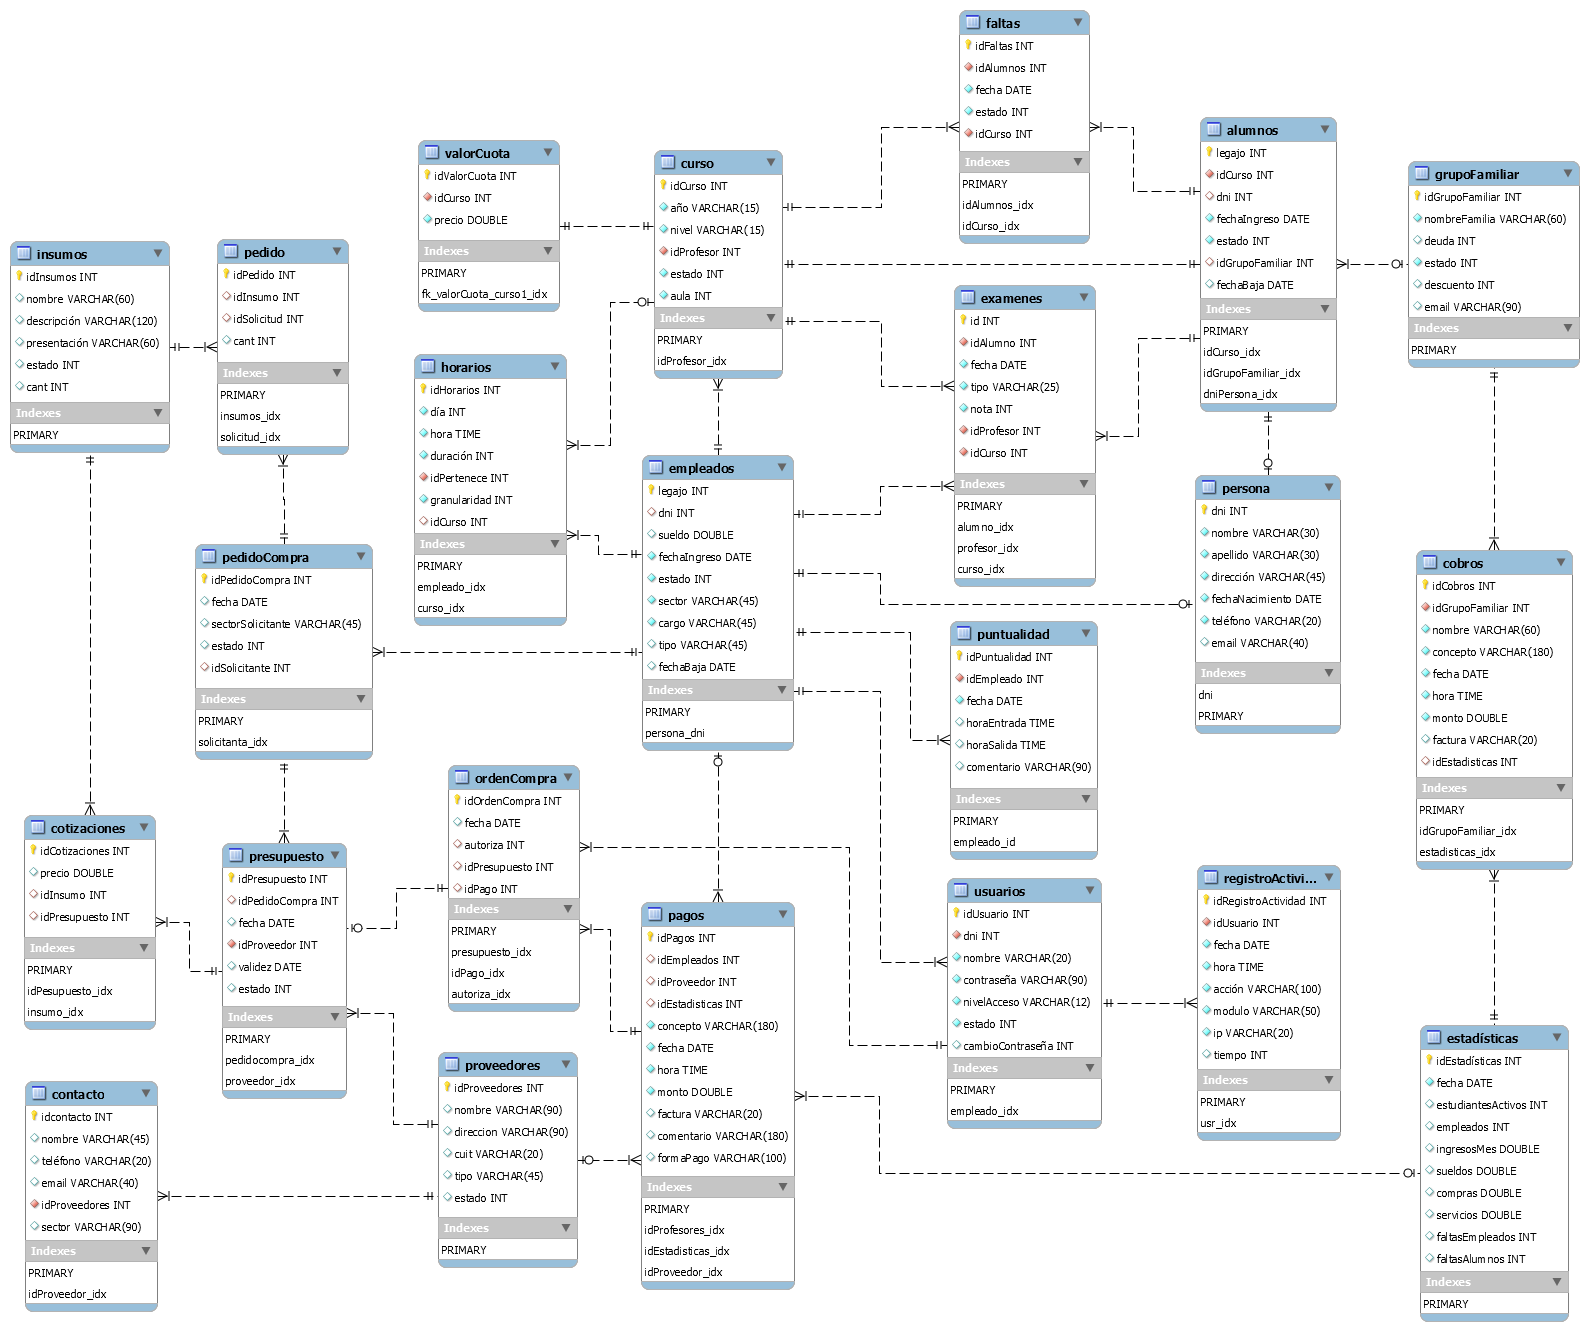
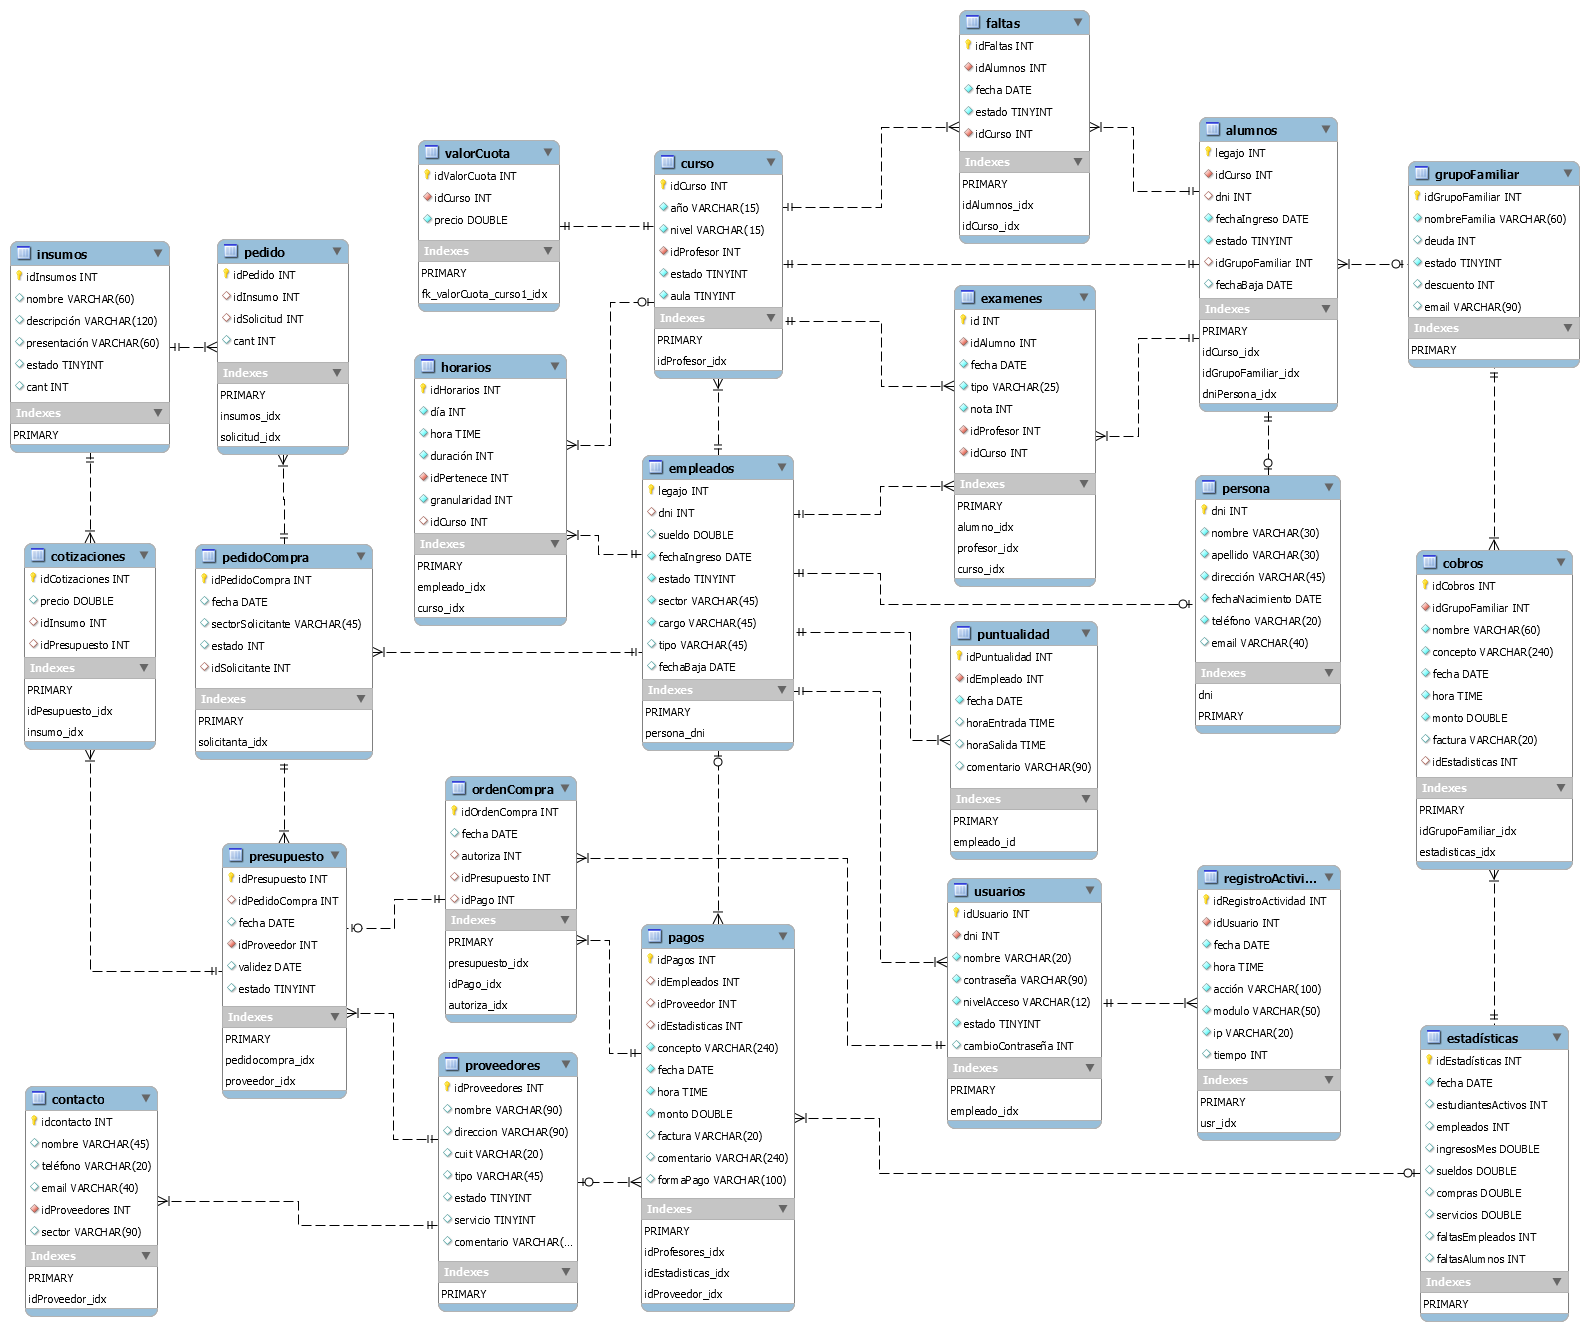
Implementando "Pago de servicios".

diff --git a/administracion/control/CtrlPagos.java b/administracion/control/CtrlPagos.java
@@ -14,6 +14,7 @@ public class CtrlPagos implements ActionListener {
 	private InterfaceBotones ventana;
 	private ABML ventanaEmpleados;
 	private ABML ventanaProveedores;
+	private ABML ventanaServicios;
 	private Listado ventanaHistorial;
 	
 	public CtrlPagos(InterfaceBotones vista) {
@@ -22,6 +23,7 @@ public class CtrlPagos implements ActionListener {
 		this.ventana.btn1A.addActionListener(this);
 		this.ventana.btn1B.addActionListener(this);
 		this.ventana.btn1C.addActionListener(this);
+		this.ventana.btn2A.addActionListener(this);
 		this.ventana.btnVolver.addActionListener(this);
 	}
 	
@@ -38,9 +40,12 @@ public class CtrlPagos implements ActionListener {
 		ventana.lbl1B.setText("Proveedores");
 		ventana.btn1B.setIcon(new ImageIcon(DtosConfiguracion.getDirectorio() + "\\Imagenes\\Proveedores.png"));
 		ventana.btn1B.setVisible(true);
-		ventana.lbl1C.setText("Listado pagos");
-		ventana.btn1C.setIcon(new ImageIcon(DtosConfiguracion.getDirectorio() + "\\Imagenes\\Listado cobros.png"));
+		ventana.lbl1C.setText("Servicios");
+		ventana.btn1C.setIcon(new ImageIcon(DtosConfiguracion.getDirectorio() + "\\Imagenes\\Servicios.png"));
 		ventana.btn1C.setVisible(true);
+		ventana.lbl2A.setText("Listado pagos");
+		ventana.btn2A.setIcon(new ImageIcon(DtosConfiguracion.getDirectorio() + "\\Imagenes\\Listado cobros.png"));
+		ventana.btn2A.setVisible(true);
 		ventana.setVisible(true);
 	}
 	
@@ -58,11 +63,27 @@ public class CtrlPagos implements ActionListener {
 		
 		if(e.getSource() == ventana.btn1C) {
 			
+			servicios();
+		}
+		
+		if(e.getSource() == ventana.btn2A) {
+			
 			historial();
 		}
 		
 		if(e.getSource() == ventana.btnVolver) {
 			
+			if(ventanaEmpleados != null)
+				ventanaEmpleados.dispose();
+
+			if(ventanaProveedores != null)
+				ventanaProveedores.dispose();
+
+			if(ventanaServicios != null)
+				ventanaServicios.dispose();
+
+			if(ventanaHistorial != null)
+				ventanaHistorial.dispose();
 			ventana.dispose();
 		}
 	}
@@ -89,6 +110,17 @@ public class CtrlPagos implements ActionListener {
 		ventanaProveedores = new ABML("Pago a proveedores", ventana.getX(), ventana.getY());
 		CtrlProveedores ctrlProveedores = new CtrlProveedores(ventanaProveedores);
 		ctrlProveedores.iniciar();
+	}
+	
+	private void servicios() {
+		
+		if(ventanaServicios != null && ventanaServicios.isVisible()) {
+			ventanaServicios.setVisible(true);
+			return;
+		}
+		ventanaServicios = new ABML("Pago de servicios e impuestos", ventana.getX(), ventana.getY());
+		CtrlPagoServicios ctrlPagarServicios = new CtrlPagoServicios(ventanaServicios);
+		ctrlPagarServicios.iniciar();
 	}
 	
 	private void historial() {

diff --git a/administracion/control/CtrlPagoServicios.java b/administracion/control/CtrlPagoServicios.java
@@ -1,0 +1,129 @@
+package control;
+
+import java.awt.event.ActionEvent;
+import java.awt.event.ActionListener;
+import java.awt.event.MouseAdapter;
+import java.awt.event.MouseEvent;
+import javax.swing.JOptionPane;
+import modelo.DtosPagos;
+import vista.ABML;
+import vista.Listado;
+
+public class CtrlPagoServicios implements ActionListener {
+
+	private ABML ventana;
+	private DtosPagos dtosPagos;
+	private int elemento = -1;
+	private Listado ventanaListadoPagos;
+	private Listado ventanaPagar;
+
+	public CtrlPagoServicios(ABML vista) {
+		
+		this.ventana = vista;
+		this.dtosPagos = new DtosPagos();
+		this.ventana.btnNuevo.addActionListener(this);
+		this.ventana.btnEditar.addActionListener(this);
+		this.ventana.btnVolver.addActionListener(this);
+		this.ventana.tabla.addMouseListener(new MouseAdapter() {
+			public void mouseClicked(MouseEvent e) {
+				if(e.getClickCount() == 1) {
+				
+					elemento = ventana.tabla.getSelectedRow();
+				} else if(e.getClickCount() == 2) {
+				
+					elemento = ventana.tabla.getSelectedRow();
+					histial();
+				}
+			}
+		});
+	}
+	
+	public void iniciar() {
+		
+		ventana.btnNuevo.setText("Ver");
+		ventana.btnEditar.setText("Pagar");
+		ventana.btnImprimir.setVisible(false);
+		
+		
+int algo;		
+		
+		actualizar();
+		
+		
+		
+		
+		
+		ventana.setVisible(true);
+	}
+	
+	public void actionPerformed(ActionEvent e) {
+		
+		if(e.getSource() == ventana.btnNuevo) {
+			
+			histial();	
+		}
+		
+		if(e.getSource() == ventana.btnEditar) {
+			
+			pagar();	
+		}
+
+		if(e.getSource() == ventana.btnVolver) {
+			
+			if(ventanaListadoPagos != null)
+				ventanaListadoPagos.dispose();
+			
+			if(ventanaPagar != null)
+				ventanaPagar.dispose();
+			ventana.dispose();
+		}
+	}
+	
+	private void actualizar() {
+		
+		
+	}
+	
+	private void pagar() {
+		
+		if(checkSeleccion()) {
+			
+			if(ventanaPagar != null && ventanaPagar.isVisible())
+				ventanaPagar.dispose();
+			
+			
+			
+			
+			
+			
+			
+		}
+	}
+	
+	private void histial() {
+		
+		if(checkSeleccion()) {
+			
+			if(ventanaListadoPagos != null && ventanaListadoPagos.isVisible())
+				ventanaListadoPagos.dispose();
+			
+			
+			
+			
+			
+			
+			
+		}
+	}
+	
+	private boolean checkSeleccion() {
+		
+		if(elemento == -1) {
+			
+			JOptionPane.showMessageDialog(null, "Debe elegir un elemento.");
+			return false;
+		}
+		dtosPagos.setProveedor(elemento);
+		return true;
+	}
+}

diff --git a/administracion/modelo/DtosPagos.java b/administracion/modelo/DtosPagos.java
@@ -9,7 +9,6 @@ import dao.ComprasMySQL;
 import dao.EmpleadoMySQL;
 import dao.InsumosDAO;
 import dao.InsumosMySQL;
-import dao.OperadorSistema;
 import dao.PagosDAO;
 import dao.PagosMySQL;
 
@@ -153,9 +152,7 @@ public class DtosPagos {
 			return false;
 		}
 		pagosDAO = new PagosMySQL();
-		OperadorSistema operador = new OperadorSistema();
-		pago.setIdEmpleado(operador.getLegajoUsuario());
-		
+
 		if(pagosDAO.setPagoProveedor(pago, seleccionados)) {
 			
 			InsumosDAO insumosDAO = new InsumosMySQL();
@@ -260,8 +257,7 @@ public class DtosPagos {
 	public boolean registrarPagoEmpleado() {
 		
 		pagosDAO = new PagosMySQL();
-		OperadorSistema operador = new OperadorSistema();
-		pago.setIdEmpleado(operador.getLegajoUsuario());
+		pago.setIdEmpleado(empleado.getLegajo());
 		
 		if(pagosDAO.setPagoEmpleado(pago)) {
 	

diff --git a/administracion/control/CtrlPagoEmpleados.java b/administracion/control/CtrlPagoEmpleados.java
@@ -64,7 +64,7 @@ public class CtrlPagoEmpleados implements ActionListener{
 	
 	public void actionPerformed(ActionEvent e) {
 
-		if(e.getSource() == ventana.chckbx1) {
+		if(e.getSource() == ventana.chckbx1 && ventana.isVisible()) {
 			
 			actualizar();
 		}
@@ -125,6 +125,7 @@ public class CtrlPagoEmpleados implements ActionListener{
 			
 			if(ventanaDetallePagos != null && ventanaDetallePagos.isVisible())
 				ventanaDetallePagos.dispose();
+			ventana.tabla.clearSelection();
 			ventanaDetallePagos = new Listado("Detalle pagos empleados", ventana.getX(), ventana.getY());
 			CtrlListadoPagosEmpleado ctrlDetallePagos = new CtrlListadoPagosEmpleado(ventanaDetallePagos);
 			ctrlDetallePagos.iniciar();

diff --git a/administracion/control/CtrlPagarEmpleado.java b/administracion/control/CtrlPagarEmpleado.java
@@ -4,7 +4,6 @@ import java.awt.Color;
 import java.awt.event.ActionEvent;
 import java.awt.event.ActionListener;
 import javax.swing.DefaultComboBoxModel;
-
 import modelo.DtosPagos;
 import vista.Nuevo;
 
@@ -54,6 +53,7 @@ public class CtrlPagarEmpleado implements ActionListener{
 		ventana.txt3.setColumns(30);
 		ventana.txt3.setVisible(true);
 		ventana.comboBox1.setModel(new DefaultComboBoxModel<String>(dtosPagos.listadoConcepto()));
+		ventana.comboBox1.setSelectedIndex(dtosPagos.getMesActual() - 1);
 		ventana.comboBox2.setModel(new DefaultComboBoxModel<String>(dtosPagos.formasPago()));
 		ventana.txtLegajo.setText(dtosPagos.getLegajo());
 		ventana.txtNombre.setText(dtosPagos.getNombreEmpleado());

diff --git a/proveedores/modelo/Proveedor.java b/proveedores/modelo/Proveedor.java
@@ -8,6 +8,8 @@ public class Proveedor {
 	private String cuit;
 	private String tipo;
 	private int estado;
+	private int servicio;
+	private String comentario;
 	private Contacto contactos[];
 	
 	public int getId() {
@@ -69,7 +71,27 @@ public class Proveedor {
 		
 		this.estado = estado;
 	}
+	
+	public int getServicio() {
+		
+		return servicio;
+	}
 
+	public void setServicio(int servicio) {
+		
+		this.servicio = servicio;
+	}
+
+	public String getComentario() {
+		
+		return comentario;
+	}
+
+	public void setComentario(String comentario) {
+		
+		this.comentario = comentario;
+	}
+	
 	public Contacto[] getContactos() {
 		
 		return contactos;

diff --git a/administracion/control/CtrlReciboCobro.java b/administracion/control/CtrlReciboCobro.java
@@ -9,12 +9,12 @@ import javax.swing.JOptionPane;
 import modelo.DtosCobros;
 import vista.ReciboCobro;
 
-public class CtrlReciboCobrarInscripcion implements ActionListener {
+public class CtrlReciboCobro implements ActionListener {
 	
 	private ReciboCobro ventanaReciboInscripcion;
 	private DtosCobros dtosCobro;
 		
-	public CtrlReciboCobrarInscripcion(ReciboCobro vista) {
+	public CtrlReciboCobro(ReciboCobro vista) {
 		
 		this.ventanaReciboInscripcion = vista;
 		this.dtosCobro = new DtosCobros();

diff --git a/administracion/control/CtrlCobrarInscripcion.java b/administracion/control/CtrlCobrarInscripcion.java
@@ -276,7 +276,7 @@ public class CtrlCobrarInscripcion implements ActionListener {
 				} else {
 				
 					ReciboCobro ventanaReciboPago = new ReciboCobro("Comprobante de pago");
-					CtrlReciboCobrarInscripcion ctrolReciboInscripcion = new CtrlReciboCobrarInscripcion(ventanaReciboPago);
+					CtrlReciboCobro ctrolReciboInscripcion = new CtrlReciboCobro(ventanaReciboPago);
 					ctrolReciboInscripcion.iniciar();
 				}
 				ventana.lblMsgError.setForeground(Color.BLUE);

diff --git a/administracion/control/CtrlRealizarCobro.java b/administracion/control/CtrlRealizarCobro.java
@@ -178,7 +178,7 @@ public class CtrlRealizarCobro implements ActionListener {
 			} else {
 			
 				ReciboCobro ventanaReciboPago = new ReciboCobro("Comprobante de pago");
-				CtrlReciboCobrarInscripcion ctrolReciboInscripcion = new CtrlReciboCobrarInscripcion(ventanaReciboPago);
+				CtrlReciboCobro ctrolReciboInscripcion = new CtrlReciboCobro(ventanaReciboPago);
 				ctrolReciboInscripcion.iniciar();
 			}
 			ventana.lblMsgError.setForeground(Color.BLUE);
